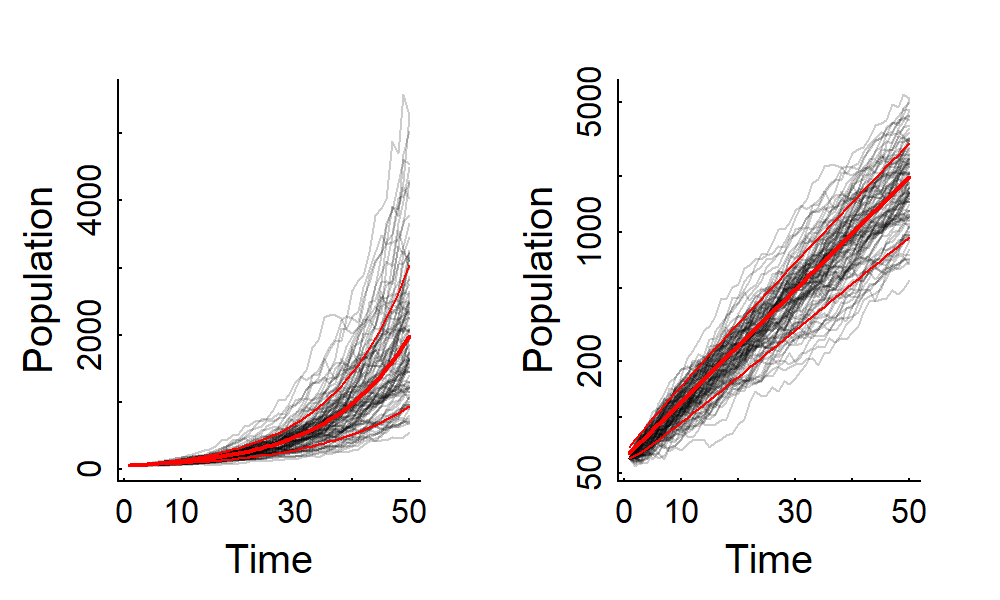
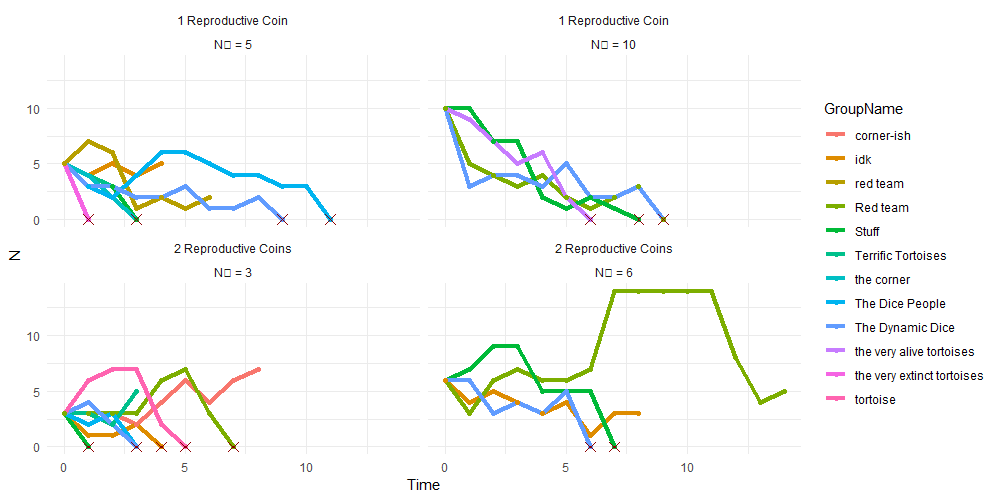
stochasticity lectures

diff --git a/lectures/ModuleI/ExponentialGrowth_PartIII_Stochasticity.html b/lectures/ModuleI/ExponentialGrowth_PartIII_Stochasticity.html
@@ -8,10 +8,6 @@
     <script src="ExponentialGrowth_PartIII_Stochasticity_files/header-attrs-2.30/header-attrs.js"></script>
     <link href="ExponentialGrowth_PartIII_Stochasticity_files/remark-css-0.0.1/default.css" rel="stylesheet" />
     <link href="ExponentialGrowth_PartIII_Stochasticity_files/remark-css-0.0.1/default-fonts.css" rel="stylesheet" />
-    <script src="ExponentialGrowth_PartIII_Stochasticity_files/fabric-4.3.1/fabric.min.js"></script>
-    <link href="ExponentialGrowth_PartIII_Stochasticity_files/xaringanExtra-scribble-0.0.1/scribble.css" rel="stylesheet" />
-    <script src="ExponentialGrowth_PartIII_Stochasticity_files/xaringanExtra-scribble-0.0.1/scribble.js"></script>
-    <script>document.addEventListener('DOMContentLoaded', function() { window.xeScribble = new Scribble({"pen_color":["#FF0000"],"pen_size":3,"eraser_size":30,"palette":[]}) })</script>
     <link href="ExponentialGrowth_PartIII_Stochasticity_files/tile-view-0.2.6/tile-view.css" rel="stylesheet" />
     <script src="ExponentialGrowth_PartIII_Stochasticity_files/tile-view-0.2.6/tile-view.js"></script>
     <link rel="stylesheet" href="mycss.css" type="text/css" />
@@ -271,7 +267,7 @@ Individually, *all* demographic processes are stochastic.
 
 More specifically / commonly: 
 
-- **How does** ***demographic stochastity*** **influence the probability of extinction?**
+- **How does** ***demographic stochasticity*** **influence the probability of extinction?**
 ]
 
 ---
@@ -281,18 +277,25 @@ class: inverse
 
 .pull-left-60.large[
 
-- 16 students
-
 - Flip a survival coin.  
 
   - If you die (**TAILS**) sit down, if you live (**HEADS**) stay standing
   
 - Flip a reproduction coin.  
 
-  - If you reproduce (**HEADS**) call on another student to stand
+  - If you reproduce (**HEADS** - *1 or 2 dice depending*) call on another student to stand
 ]
 
 .pull-right-40[![](images/GOT-99.jpg)]
+
+
+---
+class: inverse
+
+# Results!
+
+![](ExponentialGrowth_PartIII_Stochasticity_files/figure-html/unnamed-chunk-7-1.png)&lt;!-- --&gt;
+
   
 ---
 
@@ -476,7 +479,7 @@ But the standard deviation of the function increases with time!
 Sea otter example, with `\(\mu_r = 0.07\)` and `\(\sigma_r = 0.07\)`:
 
 
-![](ExponentialGrowth_PartIII_Stochasticity_files/figure-html/unnamed-chunk-7-1.png)&lt;!-- --&gt;
+![](ExponentialGrowth_PartIII_Stochasticity_files/figure-html/unnamed-chunk-8-1.png)&lt;!-- --&gt;
 
 Grey lines are simulations.  Red lines are `\(\mu_N(t) \pm \sigma_N(t)\)`
 ]
